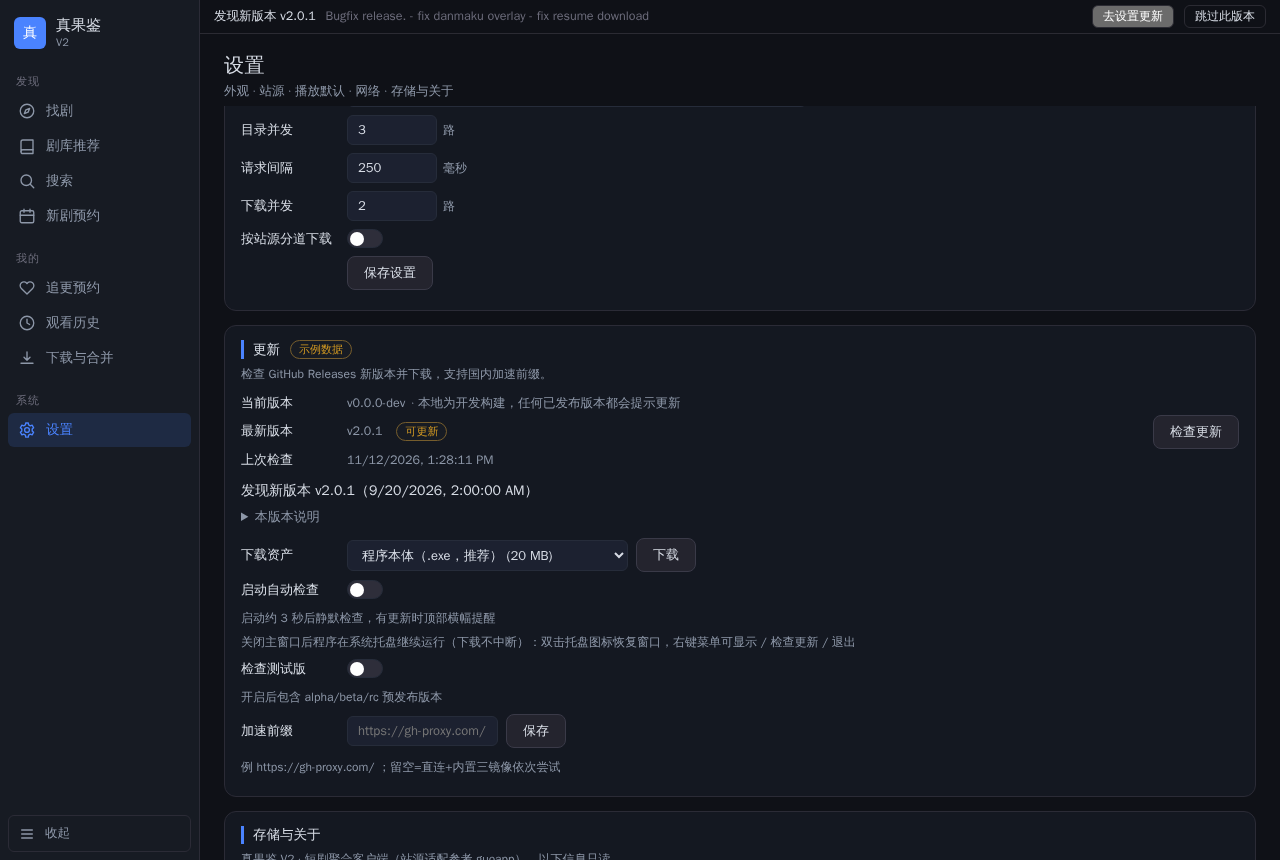
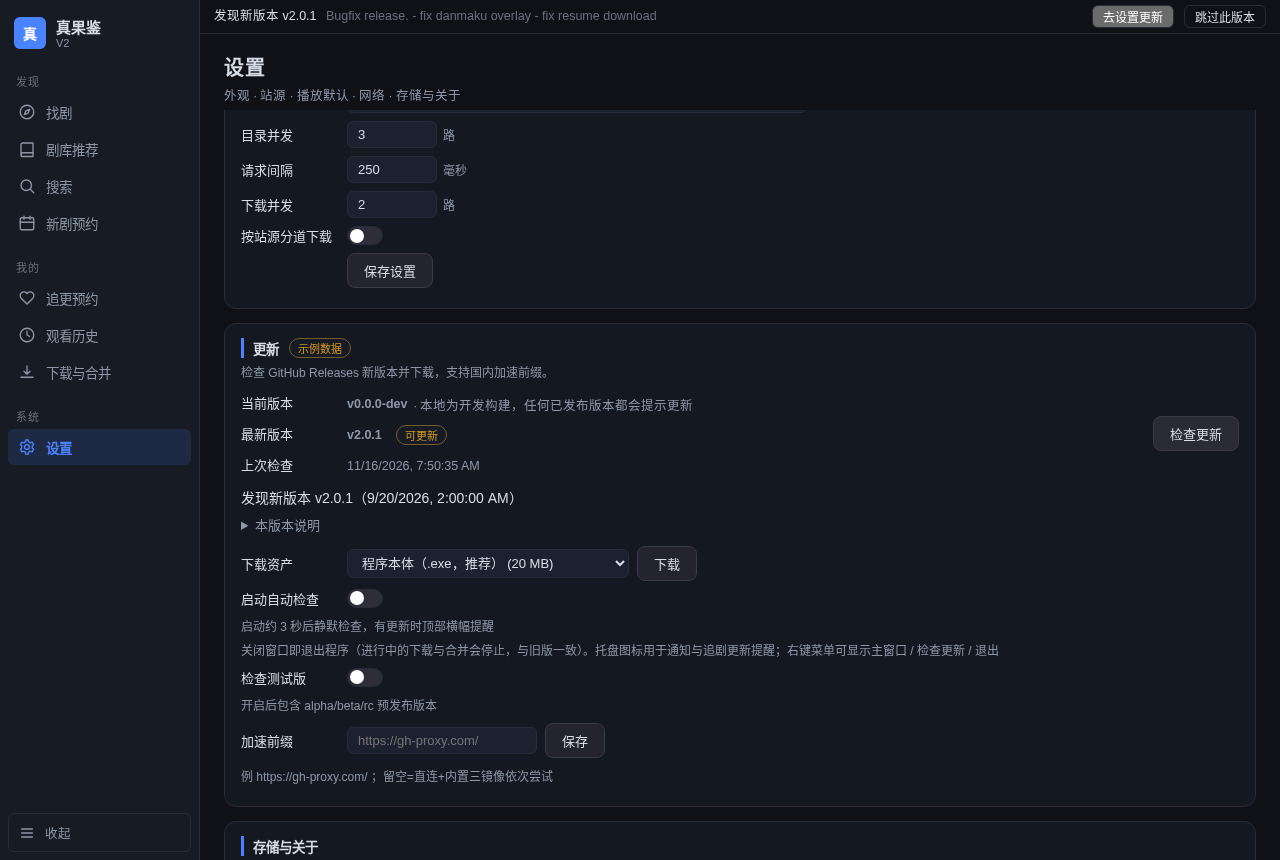
v2: 补 update:notify 事件的前端监听（engine 在、wiring 缺的又一次）
事件名对账定案（research 25 节）：update:available（updater 发现新版，
App.vue 在听，正路）与 update:notify（托盘「检查更新」→ CheckManual
→ 原生信息框失败时的事件兜底，app.go:97-103）是两个不同事件，不是
名字写错。app.go:96 注释自己承认「前端未监听 update:notify」。

触发面精确化：Linux 上托盘本身是 no-op（tray_other.go:12），CheckManual
只被托盘调用 → Linux 上该事件永远发不出；真正会触发的是 Windows 上
MessageBoxW 失败（窗口句柄异常/弹窗被禁）→ 事件兜底被丢弃。
Linux 用户手动检查走设置页按钮（UpdateCheck→Check，结果直接渲染在
设置页，一直好的）——不是这条通道的问题。

修法（App.vue）：
- 补监听 update:notify（Wails 事件）+ zgj:update-notify（mock CustomEvent
  同款双通道，与 update:available 的既有模式一致）；
- 展示为**自动 8s 消失的结果通知条**（data-testid=update-notify）：
  区别于 update:available 的常驻横幅——notify 是「查完了告诉你」不是
  「有新版本等你处理」，无按钮、不抢横幅位置、卸载时清计时器；
- 卸载钩子清 offNotify + notifyTimer（修掉自己第一版写出的 offBus 自引用
  递归——独立 offNotify 变量）。

mock 侧**刻意不派发**此事件（写进 E2E 注释）：真实 UpdateCheck 绑定走
Check（不 Notify），只有托盘路径 CheckManual 才 Notify，mock 无托盘——
mock 里加派发 = 把不存在的产品路径测绿（造假行为）。

E2E（update_verify N1/N2）：直接注入 zgj:update-notify 事件测前端监听
链路——通知条出现（文案透传）+ 8s 自动消失。15/15 PASS（含 N1/N2）。
门禁：vue-tsc 干净、vitest 41/41、端口 5194 无泄漏。

诚实边界：Windows「MessageBoxW 失败 → 事件兜底 → 通知条」这条链在
Linux 无法执行级验证（托盘 no-op + MessageBoxW 仅 Windows），现有证据
= 前端监听链路 E2E + Go 侧 app.go 路径代码走读。

diff --git a/client-v2/frontend/src/App.vue b/client-v2/frontend/src/App.vue
@@ -15,6 +15,20 @@ setupContextMenu()
 /* ── V-UPD 全局顶部更新横幅（update:available 事件驱动；无事件永不出条） ── */
 const updBanner = ref<UpdateAvailableEvent | null>(null)
 
+/* 手动检查更新的结果通知（update:notify，Go 侧 app.go：托盘「检查更新」走
+   CheckManual → 原生信息框失败时（非 Windows 恒失败）回落该事件，payload
+   {title, text}）。第九十五轮对账补上：此前前端**没有监听**，用户在 Linux
+   上点托盘检查更新后结果静默丢失。与 updBanner 区分：这是「查完了告诉你」，
+   自动 8s 消失，不常驻、不挂操作按钮。 */
+const updNotify = ref<{ title: string; text: string } | null>(null)
+let notifyTimer: number | undefined
+function onUpdNotify(payload: { title?: string; text?: string }) {
+  if (!payload?.text) return
+  updNotify.value = { title: payload.title ?? '', text: payload.text }
+  window.clearTimeout(notifyTimer)
+  notifyTimer = window.setTimeout(() => { updNotify.value = null }, 8000)
+}
+
 /* 横幅摘要：release body 常是 markdown（CI 自动生成的资产对照表），直接截 60 字
    会露出「## | 文件 | 用途 |」噪音——先净化再截。 */
 const updBannerSum = computed(() => {
@@ -24,6 +38,7 @@ const updBannerSum = computed(() => {
   return text.length > 90 ? text.slice(0, 90) + '…' : text
 })
 let offBus: (() => void) | undefined
+let offNotify: (() => void) | undefined
 
 function onUpdAvailable(payload: UpdateAvailableEvent) {
   if (!payload?.tag) return
@@ -37,15 +52,20 @@ onMounted(() => {
   startFollowCheck()
   installFollowCheckTestSeam() // 仅测试缝，产品路径不依赖它
   window.addEventListener('zgj:update-available', ((e: CustomEvent<UpdateAvailableEvent>) => onUpdAvailable(e.detail)) as EventListener)
+  window.addEventListener('zgj:update-notify', ((e: CustomEvent<{ title?: string; text?: string }>) => onUpdNotify(e.detail)) as EventListener)
   const EventsOn = (window as any).runtime?.EventsOn ?? (window as any).wails?.EventsOn
   if (typeof EventsOn === 'function') {
     const off = EventsOn('update:available', onUpdAvailable)
+    const offN = EventsOn('update:notify', onUpdNotify)
     if (typeof off === 'function') offBus = off
+    if (typeof offN === 'function') offNotify = offN
   }
 })
 onBeforeUnmount(() => {
   offBus?.()
+  offNotify?.()
   stopFollowCheck()
+  window.clearTimeout(notifyTimer)
 })
 
 function updGoSettings() {
@@ -69,6 +89,9 @@ async function updSkipVersion() {
         </span>
         <button class="upd-banner-btn" data-testid="update-banner-go" @click="updGoSettings">{{ t('update.banner.go') }}</button>
         <button class="upd-banner-btn upd-banner-ghost" data-testid="update-banner-skip" @click="updSkipVersion">{{ t('update.banner.skip') }}</button>
+      </div>
+      <div v-if="updNotify" class="upd-notify" data-testid="update-notify">
+        <span class="upd-notify-text" :title="updNotify.title">{{ updNotify.text }}</span>
       </div>
       <router-view />
     </main>
@@ -122,5 +145,20 @@ async function updSkipVersion() {
 .upd-banner-ghost {
   color: var(--guo-text, #d7dce5);
   background: transparent;
+}
+/* 手动检查结果通知：比横幅更安静（无按钮、自动消失），不抢「有新版本」横幅的位置 */
+.upd-notify {
+  padding: 4px 14px;
+  font-size: 12px;
+  line-height: 1.5;
+  color: var(--muted-2, #7a7a85);
+  border-bottom: 1px solid var(--border);
+  flex-shrink: 0;
+}
+.upd-notify-text {
+  display: block;
+  white-space: nowrap;
+  overflow: hidden;
+  text-overflow: ellipsis;
 }
 </style>

diff --git a/client-v2/frontend/verification/update_verify.py b/client-v2/frontend/verification/update_verify.py
@@ -11,6 +11,11 @@
   V5 自动检查开关：点击 → localStorage 'zgj.update.settings'.autocheck=true →
      reload 后开关 UI 态恢复 on（mock verify 只测 UI 态；真实面走 UpdateSettings）。
   V6 en locale 下「更新」区零 CJK 字符（独立 context 隔离状态）。
+   N1/N2 update:notify 结果通知条：注入事件 → 通知条出现 → 8s 自动消失
+      （第九十五轮对账：Go app.go:100 托盘检查更新原生框失败时发
+      update:notify，前端此前无监听；mock 不派发——真实 UpdateCheck
+      走 Check 不 Notify，只有托盘路径 CheckManual 才 Notify，mock 无
+      托盘，加派发=造假行为，故 N1 直接注入事件测监听链路）。
 截图：settings-update.png（V1 元素图）、update-banner.png（V2 全页含横幅）。
 
 用法：python3 verification/update_verify.py
@@ -161,6 +166,34 @@ async def main():
         gone2 = await page2.evaluate("!document.querySelector(\"[data-testid='update-banner']\")")
         check("V3c 新页持久化 ignoredTag → 「已被跳过」且无横幅", skipped_ok and (not avail) and bool(gone2), rtext.replace("\n", " | ")[:90])
         await page2.close()
+
+        # ---- N 手动检查的结果通知通道（update:notify，第九十五轮对账补监听）----
+        # Go 侧 app.go:97-103：托盘「检查更新」→ CheckManual → 原生信息框
+        # （Windows MessageBoxW）失败时回落 EventsEmit("update:notify")。
+        # Linux 托盘是 no-op（tray_other.go:12），该通道当前只在 Windows
+        # MessageBoxW 失败时发；前端此前**没有监听**（app.go 注释写了「回落
+        # 事件通道」但前端 wiring 从未实现）→ 本断言直接注入事件测监听链路。
+        # mock 面**不**派发此事件：真实 UpdateCheck 绑定走 Check（不 Notify），
+        # 只有托盘路径的 CheckManual 才 Notify，mock 无托盘——加派发=造假行为。
+        await page.evaluate(
+            """() => window.dispatchEvent(new CustomEvent('zgj:update-notify',
+               { detail: { title: '真果鉴', text: '检查更新失败：模拟网络中断' } }))"""
+        )
+        n1_ok = False
+        try:
+            await page.wait_for_selector("[data-testid='update-notify']", timeout=3000)
+            ntext = (await page.inner_text("[data-testid='update-notify']")).strip()
+            n1_ok = "检查更新失败" in ntext
+            check("N1 update:notify 事件 → 结果通知条出现", n1_ok, ntext[:60])
+        except Exception:
+            check("N1 update:notify 事件 → 结果通知条出现", False, "通知条未出现")
+        if n1_ok:
+            # N2 自动 8s 消失（计时器 8s，11s 上限内等 detached）
+            try:
+                await page.wait_for_selector("[data-testid='update-notify']", state="detached", timeout=11000)
+                check("N2 结果通知条 8s 自动消失", True)
+            except Exception:
+                check("N2 结果通知条 8s 自动消失", False, "11s 后仍在（计时器没起/没触发）")
 
         # ---- V5 自动检查开关持久化（mock UI 态；独立 context 免 init 复位自伤）----
         ctx5 = await browser.new_context(viewport={"width": 1280, "height": 860})

diff --git a/research/v2-windows-followups.md b/research/v2-windows-followups.md
@@ -965,3 +965,35 @@ player 包 TestOpenLocalDoesNotFetchOnlineDanmaku 偶发红（5 次 1 次、
 10 次 1 次）；基线对照（git stash 我的改动）15 次也失败 4 次 →
 **基线就有的偶发，与本轮改动无关**（本轮只动 buildArgs 的 --vo 行，
 不碰弹幕路径）。另案处理，未混入本次提交。
+
+## 二十五、update:notify 事件对账定案（95 轮）
+
+此前遗留的「Go 发 update:notify 前端听 update:available」对账，本轮查清：
+
+- **不是名字写错，是两个不同事件**：
+  - `update:available`：updater/service.go:457/486（发现新版本）→ App.vue:42
+    在听 → 顶部常驻横幅（带「去设置/跳过」按钮）。正路，无问题。
+  - `update:notify`：app.go:97-103，托盘「检查更新」→ CheckManual →
+    原生信息框（Windows MessageBoxW）**失败时**的回落事件，payload
+    {title, text}（Go 侧文案 = manualCheckText：失败原因/发现新版/已跳过/
+    已是最新）。
+- **漏点精确定位**：app.go:96 注释自己写了「前端未监听 update:notify，
+  非 Windows 仅开发机」——「engine 在、wiring 缺」又一次。但触发面比注释
+  想的还窄：**Linux 上托盘本身是 no-op**（tray_other.go:12 Register 恒失败，
+  CheckManual 只被托盘调用）→ Linux 上该事件永远发不出。真正会触发的是
+  **Windows 上 MessageBoxW 失败**（窗口句柄异常/弹窗被禁）→ 事件兜底被
+  丢弃（前端没听）。
+- **修法**（前端 App.vue）：补监听 `update:notify` + `zgj:update-notify`
+  CustomEvent（mock 通道同款双通道），展示为**自动 8s 消失的结果通知条**
+  （区别于 update:available 常驻横幅——notify 是「查完了告诉你」不是
+  「有新版本等你处理」，无按钮、不抢横幅位置）。
+- **mock 侧刻意不派发**：真实 UpdateCheck 绑定（bindings_update.go:53）走
+  `Check`（不 Notify），只有托盘路径的 `CheckManual` 才 Notify，mock 无
+  托盘；mock 里给 updateCheck 加派发 = 造假行为（把不存在的产品路径测绿）。
+  E2E（update_verify N1/N2）直接注入事件测前端监听链路：出现 + 8s 自动消失。
+- **诚实边界**：Windows 侧「MessageBoxW 失败 → 事件兜底 → 通知条」这条
+  链在 Linux 无法执行级验证（托盘 no-op + MessageBoxW 仅 Windows），
+  只有前端监听链路（E2E）+ 代码走读（Go 侧 app.go 路径完整）两层证据。
+  Linux 用户「点托盘检查更新看不到结果」的**真实体验缺口不是这条**——
+  Linux 上根本没有托盘，手动检查走设置页按钮（updateCheck → Check，
+  结果直接渲染在设置页结果行，一直好的）。
